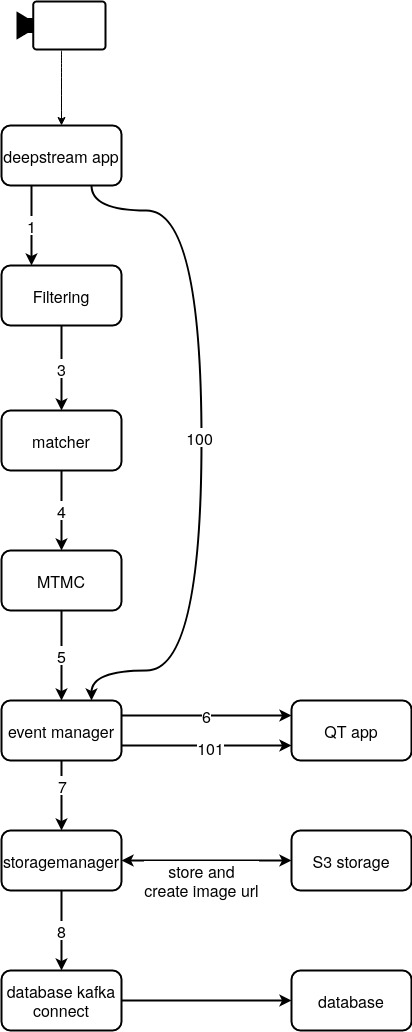
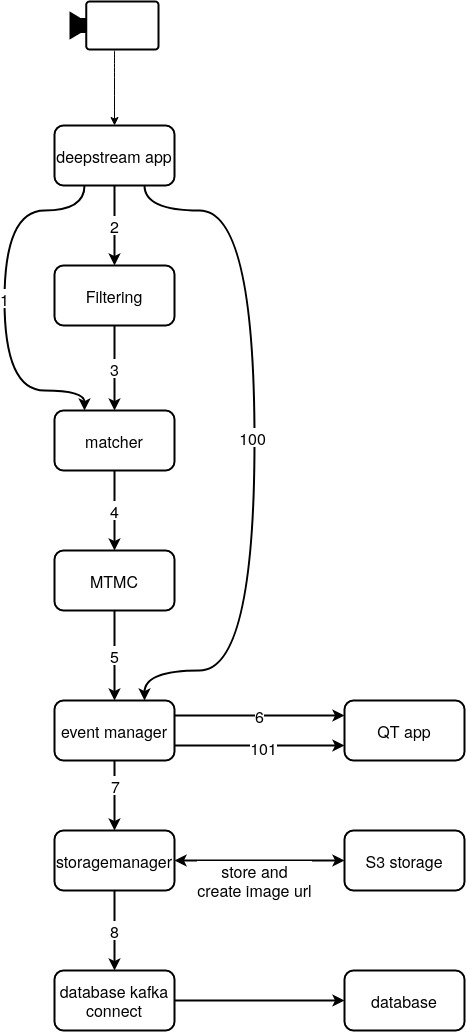
update data flow: add topic2

diff --git a/data_schemas/data_schema.py b/data_schemas/data_schema.py
@@ -156,14 +156,8 @@ class MatchedMeta(CustomBaseModel):
 
 class Topic1Model(TopicBase):
     """
-    event data with full information, including face feature, face cropped image, maybe human cropped image
+    MOT event metadata
     """
-
-    FACE: List[FaceMetaRaw] = Field(
-        [],
-        description="list of all faces in this frame"
-    )
-
     MOT: List[MotMetaRaw] = Field(
         [],
         description="list of all mot object in this frame"
@@ -172,9 +166,16 @@ class Topic1Model(TopicBase):
     class Config:
         title = 'RawMeta'
 
+class Topic2Model(TopicBase):
+    """
+    Face event metadata
+    """
+    face: FaceMetaRaw = Field(
+        description="Face event metadata"
+    )
 
-class Topic3Model(Topic1Model):
-    """For now, it just the topic1 with changed name"""
+class Topic3Model(Topic2Model):
+    """Filter faces frop topic2"""
     class Config:
         title = 'Filtered'
 
@@ -262,6 +263,9 @@ class Topic7Model(Topic5Model):
 if __name__ == "__main__":
     with open('schema_topic1.json', 'w') as _f:
         _f.write(Topic1Model.schema_json(indent=4))
+
+    with open('schema_topic2.json', 'w') as _f:
+        _f.write(Topic2Model.schema_json(indent=4))
 
     with open('schema_topic3.json', 'w') as _f:
         _f.write(Topic3Model.schema_json(indent=4))
